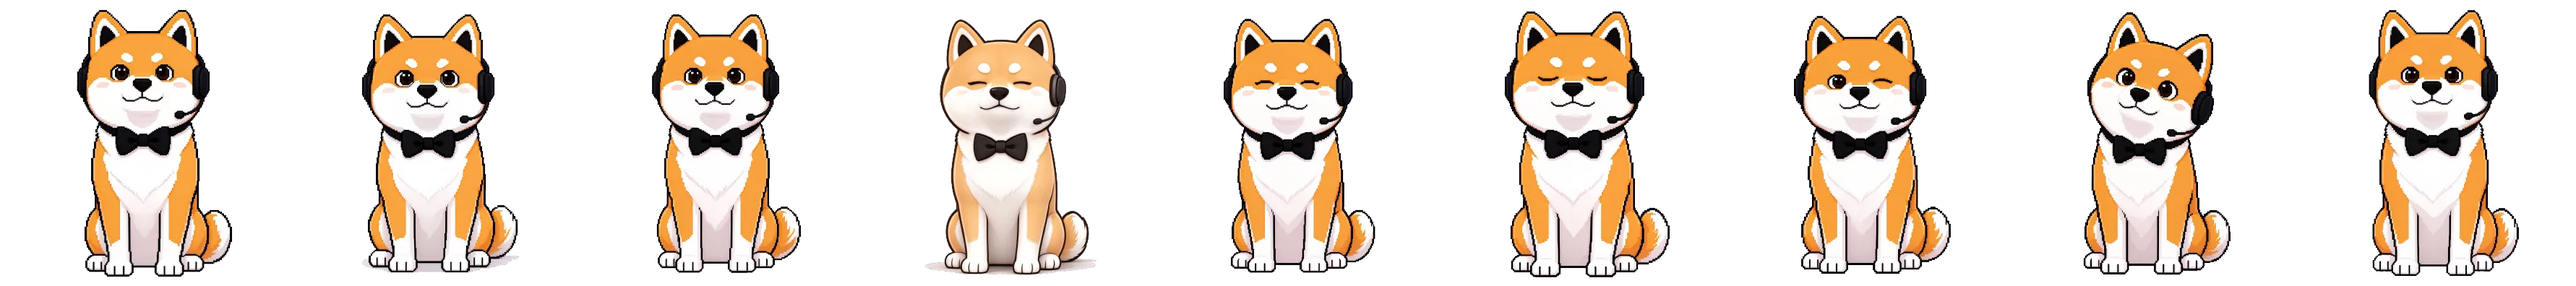
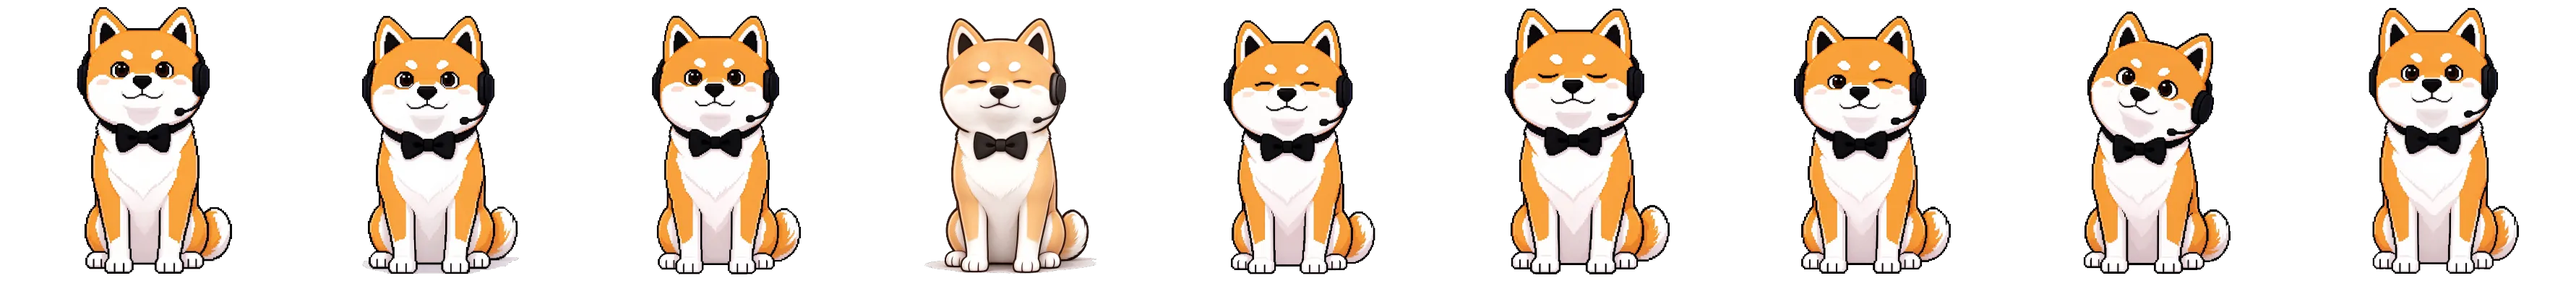
feat(pet): 按 ChatGPT 宠物的做法优化三处（固定格构图/静帧降级/元数据单一真源）
## 1. 固定格构图：脚底对齐（对齐 ChatGPT 宠物的 8×9 固定格思路）
之前每帧只做等比缩放 + 居中补边，脚底跟着姿势漂：走路帧的最低像素在
361~385 之间浮动 24px，播起来像上下颠。
现在 `_align_baseline()` 把每帧的最低不透明像素平移到固定地面线（y=380）：
**只竖直平移，等比缩放比例与水平位置都不变**（体型一致、不横向抖）。
run 有腾空段，跳过对齐以保留弹跳。

实测修正后：走路/待机/摇尾 脚底波动 1px（原 24px）；跑步仍 54px（有意保留）。

## 2. 减少动态效果 → 静帧（ChatGPT 宠物同款行为）
全局那条 `animation-duration: 0.01ms !important` 会把 sprite 直接跳到**最后一帧**
（可能是抬腿的姿势）。现在：
- `.pet-sprite` 在 reduced-motion 下 `animation: none` + `background-position: 0 0`
- PetWindow 用 `useReducedMotion()` 订阅变化，stills 也固定第 0 帧
用 Chrome `--force-prefers-reduced-motion` 渲染验证：停在干净的站立姿态。

## 3. 帧数/时长单一真源：pet.meta.json
帧数原本写死在 PetWindow（8→9/12/13/12 都得手改两处）。现在素材脚本生成
`frontend/src/assets/pet/pet.meta.json`（frames / ms / baseline），
PetWindow 直接读 —— 以后换素材、加减帧不会和代码对不上。
ms 由目标帧率推导：待机 3.75fps、走路 15fps、跑步 18fps、摇尾 14.5fps。

验证：typecheck 0 / lint 41 基线 / vitest 143+1 既有 / build ok

diff --git a/frontend/src/components/pet/PetWindow.tsx b/frontend/src/components/pet/PetWindow.tsx
@@ -25,6 +25,7 @@ import stretch1 from "@/assets/pet/stretch-1.webp";
 import tilt1 from "@/assets/pet/tilt-1.webp";
 import yawn1 from "@/assets/pet/yawn-1.webp";
 import sleep1 from "@/assets/pet/sleep-1.webp";
+import petMeta from "@/assets/pet/pet.meta.json";
 
 type TauriGlobal = {
   core?: { invoke?: <T = unknown>(cmd: string, args?: Record<string, unknown>) => Promise<T> };
@@ -46,15 +47,23 @@ const STAGE = 132;
 
 const LOOPS = {
   // idle 用待机循环的 8 帧（呼吸下沉→回正→半闭眼→全闭眼→睁眼→歪头）
-  // 用满素材帧数（补间也上）：待机 9、走路 12、跑步 13、摇尾 12。
-  // 每帧时长：待机 267ms（呼吸慢动作）、走路 65ms、跑步 54ms、摇尾 68ms。
-  breathe: { kind: "sprite", src: breatheSrc, frames: 9, ms: 2400 } as Clip,
-  walk: { kind: "sprite", src: walkSrc, frames: 12, ms: 780 } as Clip,
-  run: { kind: "sprite", src: runSrc, frames: 13, ms: 700 } as Clip,
-  tail: { kind: "sprite", src: tailSrc, frames: 12, ms: 820 } as Clip,
+  // 帧数与时长来自素材管线产出的 pet.meta.json（scripts/build_pet_assets.py），
+  // 不再在组件里写死 —— 换素材/加减帧时不会和代码对不上。
+  breathe: { kind: "sprite", src: breatheSrc, ...loopsMeta("loop-idle-breathe") } as Clip,
+  walk: { kind: "sprite", src: walkSrc, ...loopsMeta("loop-walk") } as Clip,
+  run: { kind: "sprite", src: runSrc, ...loopsMeta("loop-run") } as Clip,
+  tail: { kind: "sprite", src: tailSrc, ...loopsMeta("loop-tail") } as Clip,
 };
 
 /** 各状态的基础循环 */
+type LoopMeta = { frames: number; ms: number };
+const META_LOOPS = petMeta.loops as Record<string, LoopMeta>;
+function loopsMeta(key: string): LoopMeta {
+  const m = META_LOOPS[key];
+  if (!m) throw new Error(`pet.meta.json 缺少 ${key}`);
+  return { frames: m.frames, ms: m.ms };
+}
+
 const BASE: Record<PetState, Clip> = {
   idle: LOOPS.breathe,
   working: LOOPS.run,
@@ -91,15 +100,35 @@ function readNumber(key: string, fallback: number): number {
   return Number.isFinite(n) ? n : fallback;
 }
 
+/** 系统「减少动态效果」：像 ChatGPT 宠物那样退回**静帧**，而不是停在动画最后一帧。
+ *  全局那条 `animation-duration: 0.01ms !important` 会把 sprite 直接跳到末帧
+ *  （可能是抬腿的姿势），所以这里单独处理。 */
+function useReducedMotion(): boolean {
+  const query = "(prefers-reduced-motion: reduce)";
+  const [reduced, setReduced] = useState(
+    () => typeof window !== "undefined" && !!window.matchMedia?.(query).matches,
+  );
+  useEffect(() => {
+    const mq = window.matchMedia?.(query);
+    if (!mq) return undefined;
+    const onChange = () => setReduced(mq.matches);
+    mq.addEventListener("change", onChange);
+    return () => mq.removeEventListener("change", onChange);
+  }, []);
+  return reduced;
+}
+
 /** 播放一段 Clip：sprite 用 CSS steps()，stills 用透明度交叉淡入 */
 function ClipView({ clip, once, playKey }: { clip: Clip; once: boolean; playKey: number }) {
   const [idx, setIdx] = useState(0);
+  const reduced = useReducedMotion();
 
   useEffect(() => {
-    if (clip.kind !== "stills" || clip.frames.length < 2 || clip.ms <= 0) return;
+    if (reduced) return undefined;
+    if (clip.kind !== "stills" || clip.frames.length < 2 || clip.ms <= 0) return undefined;
     const t = window.setInterval(() => setIdx((i) => (i + 1) % clip.frames.length), clip.ms);
     return () => window.clearInterval(t);
-  }, [clip]);
+  }, [clip, reduced]);
 
   if (clip.kind === "sprite") {
     return (
@@ -109,7 +138,9 @@ function ClipView({ clip, once, playKey }: { clip: Clip; once: boolean; playKey:
         style={{
           backgroundImage: `url(${clip.src})`,
           backgroundSize: `${STAGE * clip.frames}px ${STAGE}px`,
-          animation: `pet-strip-${clip.frames} ${clip.ms}ms steps(${clip.frames}) ${once ? 1 : "infinite"}`,
+          animation: reduced
+            ? "none"
+            : `pet-strip-${clip.frames} ${clip.ms}ms steps(${clip.frames}) ${once ? 1 : "infinite"}`,
         }}
       />
     );
@@ -119,7 +150,7 @@ function ClipView({ clip, once, playKey }: { clip: Clip; once: boolean; playKey:
       {clip.frames.map((src, i) => (
         <span
           key={src}
-          className={`pet-frame${i === idx ? " on" : ""}`}
+          className={`pet-frame${i === (reduced ? 0 : idx) ? " on" : ""}`}
           style={{ backgroundImage: `url(${src})` }}
         />
       ))}

diff --git a/frontend/src/index.css b/frontend/src/index.css
@@ -4846,6 +4846,12 @@ input, textarea { cursor: text; }
     animation-iteration-count: 1 !important;
     transition-duration: 0.01ms !important;
   }
+  /* 桌宠例外：上面那条会把 sprite 直接跳到**最后一帧**（可能是抬腿的姿势）。
+     改为停在第 0 帧的静帧 —— 与 ChatGPT 宠物「减少动态时用静态画面」一致。 */
+  .pet-sprite {
+    animation: none !important;
+    background-position: 0 0 !important;
+  }
 }
 
 /* ── 「问 AI ↗」快捷入口(功能页 → 聊天):中性 ghost,hover 才见蓝 ── */

diff --git a/scripts/build_pet_assets.py b/scripts/build_pet_assets.py
@@ -18,6 +18,7 @@
 from __future__ import annotations
 
 import argparse
+import json
 import re
 from collections import deque
 from pathlib import Path
@@ -30,6 +31,18 @@ FRAME = 396
 WHITE_TOLERANCE = 26
 #: webp 质量
 QUALITY = 82
+#: 地面基线：所有「踩地」的帧把最低像素对齐到这条线（对齐 ChatGPT 宠物的固定格思路）。
+#: 之前每帧只做等比缩放 + 居中补边，脚底跟着姿势在 361~385 之间漂 24px，快速播放像上下颠。
+BASELINE = FRAME - 16
+#: 目标播放帧率（每帧时长 = 帧数 / fps）。run 有腾空段，不做基线对齐保留弹跳。
+LOOP_FPS = {
+    "loop-idle-breathe": 3.75,
+    "loop-walk": 15.0,
+    "loop-run": 18.0,
+    "loop-tail": 14.5,
+}
+#: 有腾空动作、不能钉住地面的循环
+AIRBORNE = {"loop-run"}
 
 # 循环：目录名 → (输出文件名, 帧数)
 #
@@ -125,6 +138,23 @@ def _fit(img: Image.Image, size: int = FRAME) -> Image.Image:
     return canvas
 
 
+def _align_baseline(img: Image.Image, baseline: int = BASELINE) -> Image.Image:
+    """把帧的最低不透明像素对齐到同一条地面线。
+
+    只做**竖直平移**：等比缩放比例不变（体型一致），水平位置不变（避免横向抖动）。
+    走/坐/站这类「脚一直踩地」的循环，对齐后就不会再上下漂；腾空类（run）跳过。
+    """
+    bbox = img.split()[3].getbbox()
+    if not bbox:
+        return img
+    shift = baseline - bbox[3]
+    if shift == 0:
+        return img
+    out = Image.new("RGBA", img.size, (0, 0, 0, 0))
+    out.alpha_composite(img, (0, shift))
+    return out
+
+
 def _strip(frames: list[Image.Image], out: Path) -> None:
     sheet = Image.new("RGBA", (FRAME * len(frames), FRAME), (0, 0, 0, 0))
     for i, frame in enumerate(frames):
@@ -158,29 +188,50 @@ def main() -> None:
     out = Path(args.out)
     out.mkdir(parents=True, exist_ok=True)
 
+    meta: dict[str, dict] = {}
     for folder, (name, expected) in LOOPS.items():
         files = _frame_files(src / folder, expected)
         frames = [_fit(_transparent(Image.open(f))) for f in files]
+        if name not in AIRBORNE:
+            frames = [_align_baseline(f) for f in frames]
         _strip(frames, out / f"{name}.webp")
-        print(f"✅ {name}.webp  ({len(frames)} 帧)")
+        fps = LOOP_FPS[name]
+        meta[name] = {
+            "frames": len(frames),
+            "ms": round(len(frames) / fps * 1000),
+            "baseline": None if name in AIRBORNE else BASELINE,
+        }
+        print(f"✅ {name}.webp  ({len(frames)} 帧 · {meta[name]['ms']}ms · {fps:g}fps"
+              f"{' · 腾空不对齐' if name in AIRBORNE else ' · 脚底对齐'})")
 
-    for prefix, name in STILLS.items():
+    for prefix, name in STILLS.items():  # noqa: PLR1702
         matches = list(src.glob(f"{prefix}*.png")) + list(src.glob(f"{prefix}*.jpg"))
         if not matches:
             raise SystemExit(f"找不到 {prefix}*")
-        _fit(_transparent(Image.open(matches[0]))).save(
-            out / f"{name}.webp", "WEBP", quality=QUALITY, method=6
-        )
+        still = _align_baseline(_fit(_transparent(Image.open(matches[0]))))
+        still.save(out / f"{name}.webp", "WEBP", quality=QUALITY, method=6)
         print(f"✅ {name}.webp  ← {matches[0].name}")
 
     folder, prefix, name = SLEEP_SOURCE
     files = [f for f in _frame_files(src / folder, LOOPS[folder][1]) if f.stem.startswith(prefix)]
     if not files:
         raise SystemExit(f"找不到 {folder}/{prefix}")
-    _fit(_transparent(Image.open(files[0]))).save(
+    _align_baseline(_fit(_transparent(Image.open(files[0])))).save(
         out / f"{name}.webp", "WEBP", quality=QUALITY, method=6
     )
     print(f"✅ {name}.webp  ← {folder}/{files[0].name}")
+
+    # 帧数/时长的单一数据源：前端直接 import 这个 JSON，不再在组件里写死 8/9/12/13
+    meta_path = out / "pet.meta.json"
+    meta_path.write_text(
+        json.dumps(
+            {"cell": FRAME, "stage": 132, "loops": meta, "generated_by": "scripts/build_pet_assets.py"},
+            ensure_ascii=False,
+            indent=2,
+        )
+        + "\n"
+    )
+    print(f"✅ {meta_path.name}  {json.dumps(meta, ensure_ascii=False)}")
 
 
 if __name__ == "__main__":
